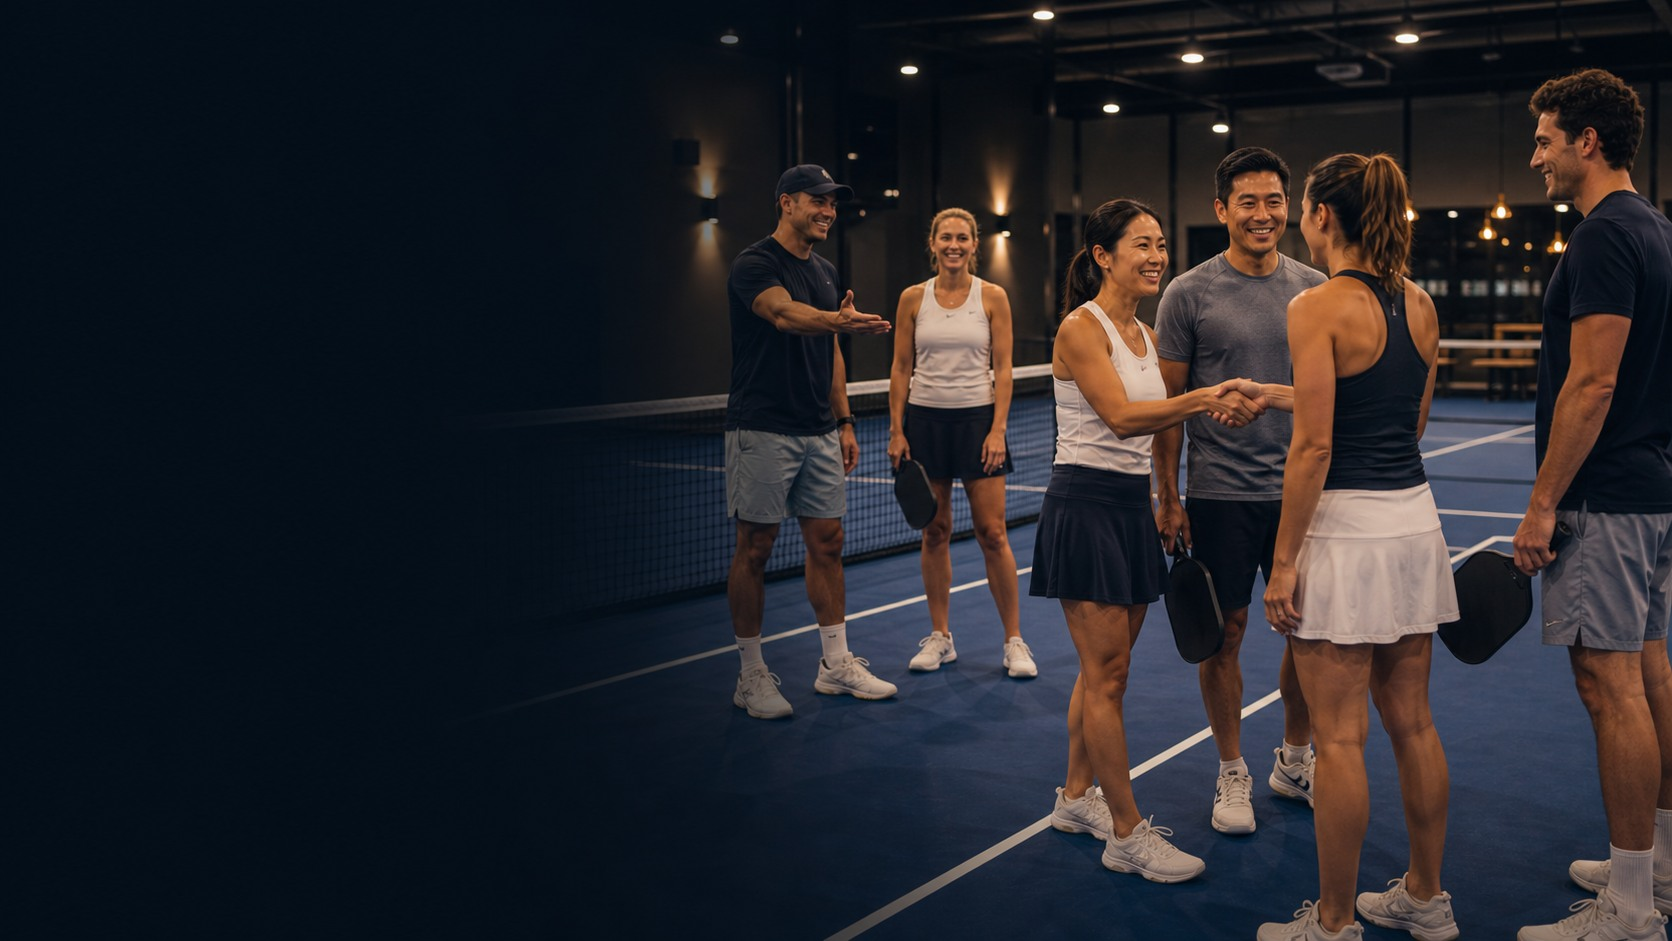
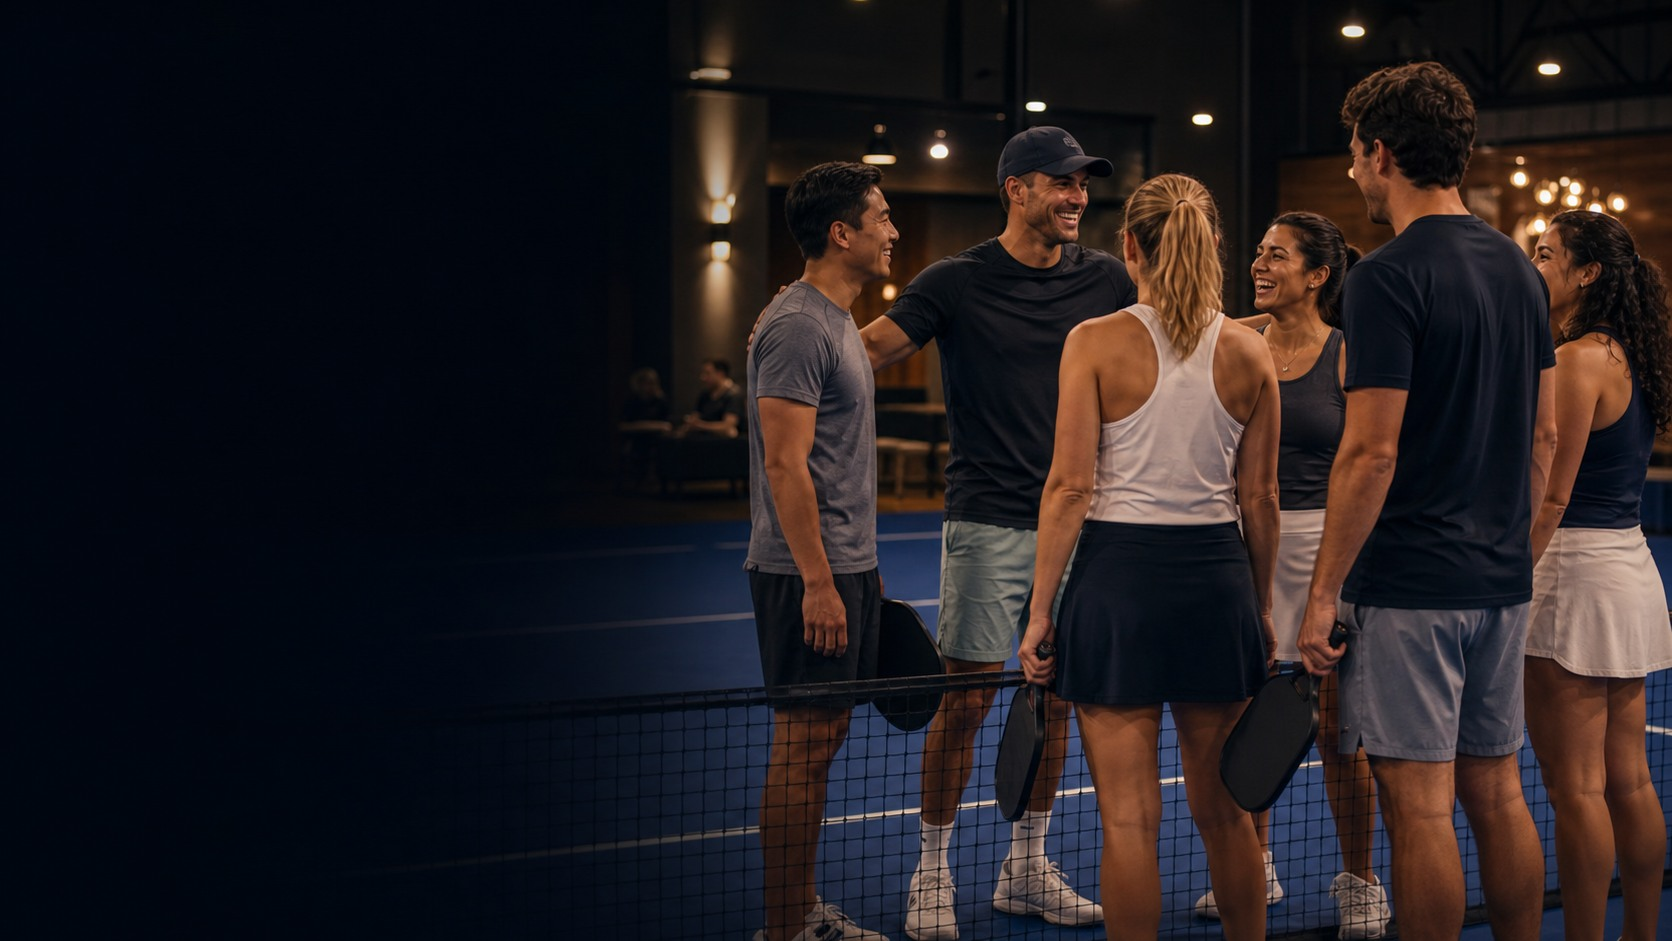
Use group circle hero background

diff --git a/index.html b/index.html
@@ -12,7 +12,7 @@
   </head>
   <body>
     <main class="landing">
-      <img class="hero-image" src="./assets/hero-indoor-club.jpg?v=20260622-handshake" alt="" />
+      <img class="hero-image" src="./assets/hero-indoor-club.jpg?v=20260622-circle" alt="" />
 
       <nav class="nav" aria-label="Primary">
         <a class="brand" href="#top" aria-label="Give n Take home">